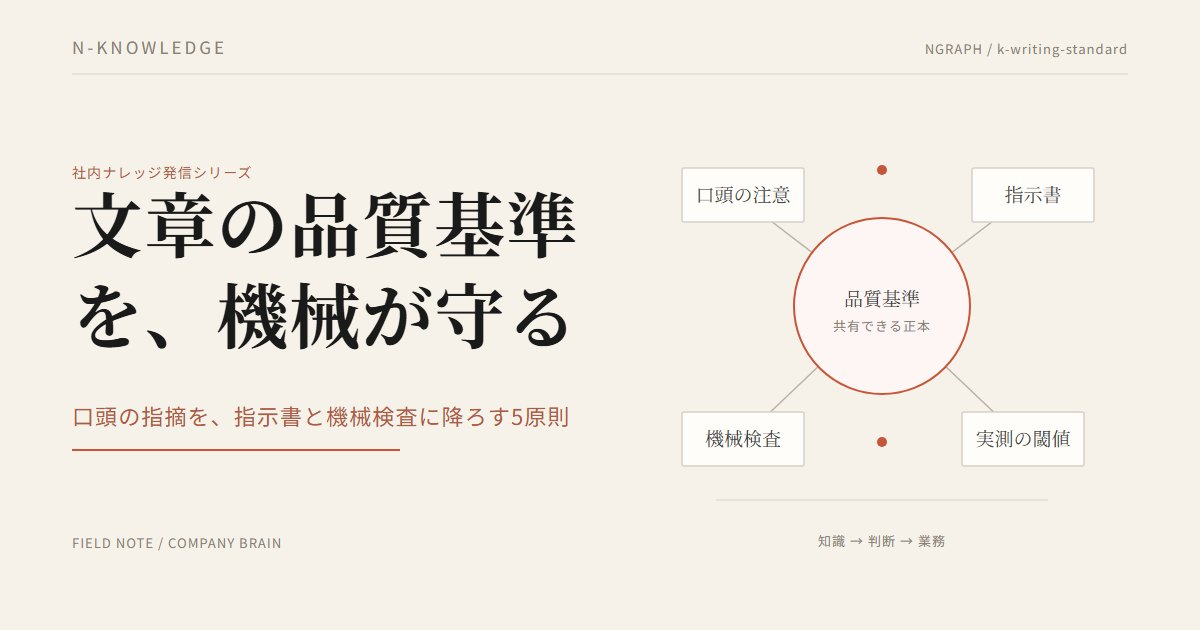
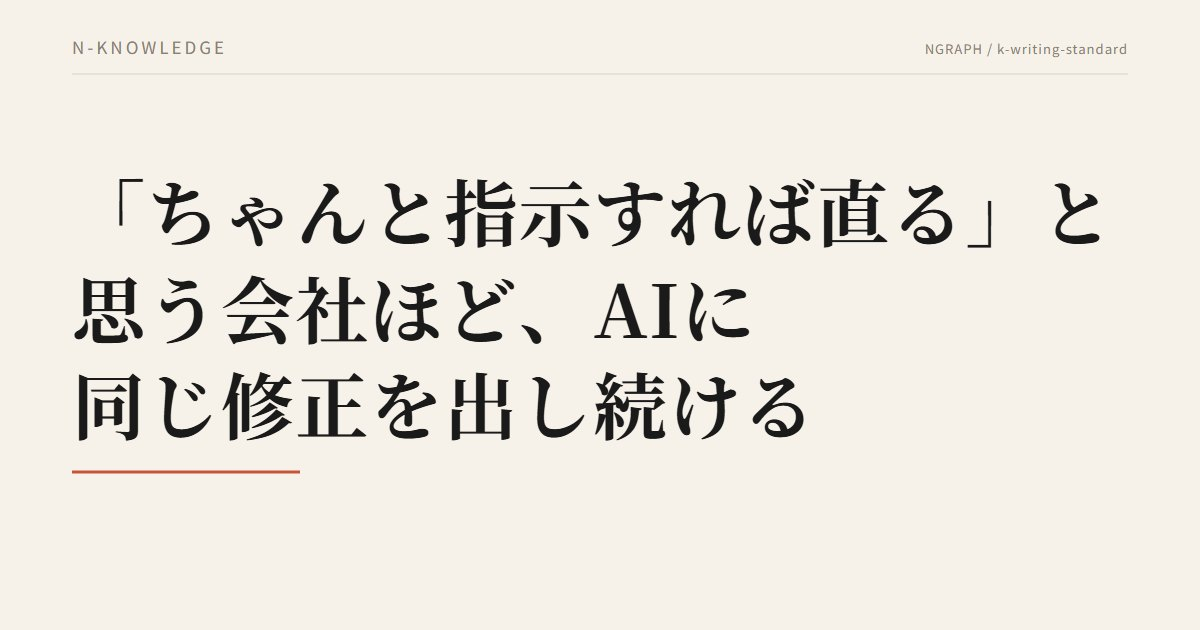
blog: k-writing-standard を標本ベースで作り直し（表紙をタイトル全文型へ・記事を読者課題起点へ）
はてなブックマークの保存上位を実測したところ、伸びている記事の表紙は
「タイトル全文を巨大に焼いただけ・図解なし」だった（1707users/1226users）。
うちは図解ハブが右半分を占めるため主張が左半分に押し込まれ、16字に収める
過程で必ず抽象標語になる構造だった＝8/18と8/19の差し戻しは同じ原因。

- eyecatch_k.py: タイトル全文型を新設し既定に（--layout title / 手動改行 | 対応・
  助詞始まりの行を弾く）。hub型は --layout hub で残す
- eyecatch_check.py: k-title は図案が無いので重なり判定の前提が無い。検査を
  外さず「安全余白の外に墨があるか」へ差し替え（負テストで exit 1 を確認）
- title_lint.py: <title>/og:title の「| NGraphブログ」欠落を検査（対象25本中
  この1本だけ欠けていた）
- 記事: タイトルを逆説型へ。自社ブログのlintの話から、AIに任せた定型業務で
  同じ修正が再発する読者課題へ再定義。設計名を「基準の移送」に是正（口頭の
  注意は捨てる段なので三段ではない）。自社61本の数字は事実・限界・転用手順の
  3層に分けた。表の「3連続まで」という矛盾を修正

diff --git a/blog/k-writing-standard.html b/blog/k-writing-standard.html
@@ -10,10 +10,10 @@
   gtag('js', new Date());
   gtag('config', 'G-L96HMXRK1D');
 </script>
-<title>AIに同じ注意を3回したら、直すのは指示書のほう——文章の品質を機械で守る5つの原則</title>
-<meta name="description" content="AIに同じ注意を繰り返している会社は多いはずです。基準を会話から指示書と機械検査に降ろす「基準の三段降ろし」という設計と、実測した閾値の根拠、行き詰まった2つの失敗をそのまま公開します。">
-<meta property="og:title" content="AIに同じ注意を3回したら、直すのは指示書のほう——文章の品質を機械で守る5つの原則">
-<meta property="og:description" content="AIに同じ注意を繰り返している会社は多いはずです。基準を会話から指示書と機械検査に降ろす「基準の三段降ろし」という設計と、実測した閾値の根拠、行き詰まった2つの失敗をそのまま公開します。">
+<title>「ちゃんと指示すれば直る」と思う会社ほど、AIに同じ修正を出し続ける——品質基準を人の口から外す設計 | NGraphブログ</title>
+<meta name="description" content="AIに出した修正指示は、次の生成には引き継がれません。基準を人の口から外し、AIが毎回読む指示書と、提出前に必ず走る検査へ移す設計です。閾値の決め方と、基準を作った本人が自分の基準に落ちた失敗まで公開します。">
+<meta property="og:title" content="「ちゃんと指示すれば直る」と思う会社ほど、AIに同じ修正を出し続ける——品質基準を人の口から外す設計 | NGraphブログ">
+<meta property="og:description" content="AIに出した修正指示は、次の生成には引き継がれません。基準を人の口から外し、AIが毎回読む指示書と、提出前に必ず走る検査へ移す設計です。閾値の決め方と、基準を作った本人が自分の基準に落ちた失敗まで公開します。">
 <meta property="og:type" content="article">
 <meta property="og:url" content="https://ngraph.jp/blog/k-writing-standard">
 <meta property="og:site_name" content="株式会社NGraph">
@@ -33,9 +33,9 @@
 {
   "@context": "https://schema.org",
   "@type": "Article",
-  "headline": "AIに同じ注意を3回したら、直すのは指示書のほう——文章の品質を機械で守る5つの原則",
+  "headline": "「ちゃんと指示すれば直る」と思う会社ほど、AIに同じ修正を出し続ける——品質基準を人の口から外す設計",
   "image": "https://ngraph.jp/assets/blog/k-writing-standard.jpg",
-  "description": "AIに同じ注意を繰り返している会社は多いはずです。基準を会話から指示書と機械検査に降ろす「基準の三段降ろし」という設計と、実測した閾値の根拠、行き詰まった2つの失敗をそのまま公開します。",
+  "description": "AIに出した修正指示は、次の生成には引き継がれません。基準を人の口から外し、AIが毎回読む指示書と、提出前に必ず走る検査へ移す設計です。閾値の決め方と、基準を作った本人が自分の基準に落ちた失敗まで公開します。",
   "datePublished": "2026-08-19",
   "dateModified": "2026-08-19",
   "inLanguage": "ja",
@@ -61,121 +61,112 @@
 
 <article class="article-wrap">
   <div class="a-label">N-KNOWLEDGE</div>
-  <h1>AIに同じ注意を3回したら、直すのは指示書のほう——文章の品質を機械で守る5つの原則</h1>
+  <h1>「ちゃんと指示すれば直る」と思う会社ほど、AIに同じ修正を出し続ける——品質基準を人の口から外す設計</h1>
   <span class="a-date">2026.08.19 ナレッジ ｜ 株式会社NGraph</span>
-  <img class="a-eyecatch" src="/assets/blog/k-writing-standard.jpg" alt="AIに同じ注意を3回したら、直すのは指示書のほう——文章の品質を機械で守る5つの原則">
-<p>AIに文章を書かせている会社の多くが、同じ場所でつまずきます。担当者が言い回しを直させ、その回は直る。ところが次の生成では、同じ癖がまた出てきます。うちも先週まで同じ状態でした。2026年8月16日、代表の髙橋から「同じ語尾が3回続く日本語はやばい」「最初の一文で何の話か分からないと、そこで離脱する」という指摘を受けた日、直す先を担当者への注意から変えました。AIが毎回読む指示書と、公開前に必ず走る機械検査に、基準そのものを移したのです。この記事では、その設計に付けた名前「基準の三段降ろし」と、実際に置いた5つの原則、そして基準を作った本人が自分の基準に落ちたという失敗を、実測した数字とともに公開します。</p>
+  <img class="a-eyecatch" src="/assets/blog/k-writing-standard.jpg" alt="「ちゃんと指示すれば直る」と思う会社ほど、AIに同じ修正を出し続ける——品質基準を人の口から外す設計">
+<p>AIに議事録や見積の下書きを書かせている会社で、同じ場面が繰り返し起きています。担当者が「この言い回しを直して」と指示を出し、その回は直る。ところが翌日また書かせると、同じ癖が戻っている。担当者はもう一度同じ指示を出し、3回目あたりで指摘するのをやめます。これはAIの性能でも、担当者の根気でもなく、<strong>指示を置いた場所</strong>の問題です。NGraphは2026年8月16日にこの問題へ正面からぶつかり、その日のうちに基準の置き場所を変えました。この記事で公開するのは、そのとき使った「基準の移送」という設計と、閾値の決め方、そして基準を作った本人が自分の基準に落ちた失敗です。</p>
 <div class="a-toc"><strong>この記事でわかること</strong><br>
-・AIへの注意が翌週に残らない、2つの構造的な理由<br>
-・基準の三段降ろし＝口頭の注意→指示書→機械検査という設計<br>
-・機械に渡してよい基準と、人が持つべき基準の分け方<br>
-・自社で今日から始められる最小5段階</div>
+・AIへの指示が翌日に残らない理由と、それが担当者の責任ではない根拠<br>
+・基準の置き場所は3つあり、そのうち1つは使ってはいけないこと<br>
+・機械に渡してよい基準と、人が持ち続けるべき基準の分け方<br>
+・閾値を勘で決めないための、自社の実物から線を引く手順<br>
+・明日から始められる5段階（表計算だけで足りる）</div>
 
-<h2>「気をつけます」で終わった指摘は、翌週には残っていない</h2>
-<p>AIに文章を書かせている現場で、同じ場面がよく起きます。担当者が「ここの言い回しを直して」と指摘し、その回だけは直ります。ところが次に生成させると、同じ癖がまた出てきます。担当者は同じ注意をもう一度口にし、そのうち指摘そのものをやめてしまいます。</p>
-<p>原因は担当者の根気ではありません。AIは前回の注意を、次の会話に持ち越さないからです。会話の中だけで直した基準は、その会話が終わった瞬間に消えます。ところが多くの現場では、基準は担当者の記憶と、過去のやり取りの奥にしか置かれていません。文章に限った話ではなく、見積の書き方でも、報告の形式でも、同じことが起きます。</p>
-<p>うちも同じ場所で止まっていました。2026年8月16日、代表の髙橋から「同じ語尾が3回続く日本語はやばい」「最初の一文で何の話か分からないと、そこで離脱する」という指摘を受けました。その日のうちに取った行動は、その回の文章を直すことではありませんでした。指摘そのものを、AIが毎回読む場所へ移したのです。</p>
+<h2>同じ修正を3回出したなら、直す相手はAIではない</h2>
+<p>なぜ同じ修正が戻ってくるのか。理由は単純で、<strong>AIは前回の会話で受けた指示を、次の会話へ持ち越さない</strong>からです。会話の中で伝えた基準は、その会話が閉じた瞬間に消えます。担当者の側には「先週あれだけ言ったのに」という記憶が残るので、AIが怠けているように見える。ところが実際には、基準がどこにも保存されていないだけです。</p>
+<p>この構図は文章に限りません。見積書の項目の並べ方、報告書の粒度、議事録で決定事項と検討事項を分ける書き分け。どれも「毎回言っているのに毎回直らない」の対象になります。共通するのは、基準が担当者の頭の中と、過去のやり取りの奥にしか無いことです。</p>
+<p>ここから導ける判断は1つです。<strong>同じ修正を3回出したなら、4回目を出す前に、基準の置き場所を変える。</strong> 4回目の指示は3回目と同じ運命をたどります。粘っても報われません。</p>
 
-<h2>基準を置ける場所は3つある</h2>
-<p>基準には、置ける場所が3つあります。1つ目は口頭の注意です。会話の中でその場だけ直す方法で、直った証拠は誰かの記憶にしか残りません。担当者が変わった瞬間、あるいはAIとの会話が終わった瞬間に消えます。</p>
-<p>2つ目は、AIが毎回読む指示書です。生成の前に必ず目を通す場所に基準を書いておけば、会話をまたいでも同じ基準が効きます。書き手が誰であっても、AIのモデルが替わっても、指示書がある限り基準は残ります。</p>
-<p>3つ目は、公開する前に必ず走る機械の検査です。人はどれだけ丁寧に注意していても、忙しい日には確認を飛ばします。機械の検査は忘れません。数えられる基準だけしか渡せませんが、走らせ忘れることがないという一点で、指示書よりさらに強い場所です。</p>
-<p>私たちはこの3段を「基準の三段降ろし」と呼んでいます。下の図が、その3段それぞれの基準がどれだけ残り、誰を守るかをまとめたものです。</p>
+<h2>基準の置き場所は3つあり、1つは使ってはいけない</h2>
+<p>基準を置ける場所は3つあります。ただし対等な3択ではありません。1つ目は<strong>口頭の注意</strong>で、会話の中でその場だけ直させるやり方です。残るのは誰かの記憶だけで、担当者が異動すれば消えます。これは移送元であって、置き場所として採用してはいけません。</p>
+<p>2つ目は<strong>AIが毎回読む指示書</strong>です。書き出す前に必ず通る場所へ基準を置いておくと、会話をまたいでも効き続けます。担当者が替わっても、使うAIを乗り換えても、指示書がある限り基準は残ります。</p>
+<p>3つ目は<strong>提出前に必ず走る検査</strong>です。人はどれほど気をつけていても、忙しい日には確認を飛ばします。検査は飛ばしません。渡せるのが数えられる基準だけという制約と引き換えに、走らせ忘れが起きない強さを持ちます。</p>
+<p>この、&#9312;を空にして&#9313;と&#9314;へ移す流れを、私たちは<strong>基準の移送</strong>と呼んでいます。3つ並べて選ぶのではなく、1つを捨てて2つへ移す。ここを取り違えると、指示書を作ったのに口頭の注意も続ける、という中途半端な状態で止まります。</p>
 
 <div class="a-fig-wrap">
-<p class="a-fig-title">基準の三段降ろし</p>
-<svg viewBox="0 0 1200 420" width="100%" style="min-width:640px" role="img" aria-label="基準を置ける3つの場所。①口頭の注意は1回で消え聞いていた本人しか守らない。②毎回読ませる指示書はAIが生成前に毎回読み、書き換えるまで残り、AIが書くもの全部を守る。③公開前の機械検査は人が忘れても走り、検査を緩めない限り恒久に残り、担当者が変わっても同じ基準で守る">
-<rect x="40" y="80" width="340" height="260" rx="4" fill="none" stroke="#8a8172" stroke-width="1.5"/>
-<text x="210" y="135" font-family="'Zen Kaku Gothic New',sans-serif" font-size="25" fill="#2b2620" font-weight="700" text-anchor="middle">① 口頭の注意</text>
-<text x="210" y="172" font-family="'Zen Kaku Gothic New',sans-serif" font-size="16" fill="#5c544a" text-anchor="middle">会話の中でその場だけ直す</text>
-<text x="210" y="232" font-family="'Zen Kaku Gothic New',sans-serif" font-size="16" fill="#5c544a" text-anchor="middle">残る期間：1回</text>
-<text x="210" y="270" font-family="'Zen Kaku Gothic New',sans-serif" font-size="16" fill="#5c544a" text-anchor="middle">守る相手：聞いていた本人だけ</text>
-
-<rect x="430" y="80" width="340" height="260" rx="4" fill="none" stroke="#8a8172" stroke-width="2.5"/>
-<text x="600" y="135" font-family="'Zen Kaku Gothic New',sans-serif" font-size="25" fill="#2b2620" font-weight="700" text-anchor="middle">② 毎回読ませる指示書</text>
-<text x="600" y="172" font-family="'Zen Kaku Gothic New',sans-serif" font-size="16" fill="#5c544a" text-anchor="middle">AIが生成する前に必ず読む</text>
-<text x="600" y="232" font-family="'Zen Kaku Gothic New',sans-serif" font-size="16" fill="#5c544a" text-anchor="middle">残る期間：書き換えるまで</text>
-<text x="600" y="270" font-family="'Zen Kaku Gothic New',sans-serif" font-size="16" fill="#5c544a" text-anchor="middle">守る相手：AIが書くもの全部</text>
-
-<rect x="820" y="80" width="340" height="260" rx="4" fill="#a63a24"/>
-<text x="990" y="135" font-family="'Zen Kaku Gothic New',sans-serif" font-size="25" fill="#f6f2e9" font-weight="700" text-anchor="middle">③ 公開前の機械検査</text>
-<text x="990" y="172" font-family="'Zen Kaku Gothic New',sans-serif" font-size="16" fill="#f6f2e9" text-anchor="middle">人が忘れても検査は走る</text>
-<text x="990" y="232" font-family="'Zen Kaku Gothic New',sans-serif" font-size="16" fill="#f6f2e9" text-anchor="middle">残る期間：緩めない限り恒久</text>
-<text x="990" y="270" font-family="'Zen Kaku Gothic New',sans-serif" font-size="16" fill="#f6f2e9" text-anchor="middle">守る相手：担当者が変わっても同じ</text>
-
-<line x1="380" y1="210" x2="422" y2="210" stroke="#8a8172" stroke-width="2"/><path d="M422 210 l-14 -7 v14 z" fill="#8a8172"/>
-<line x1="770" y1="210" x2="812" y2="210" stroke="#8a8172" stroke-width="2"/><path d="M812 210 l-14 -7 v14 z" fill="#8a8172"/>
-<text x="8" y="400" font-family="'Zen Kaku Gothic New',sans-serif" font-size="14" fill="#8a8172" text-anchor="start">右へ進むほど、基準が消えにくくなる。機械に渡せるのは数えられる基準だけ</text>
+<p class="a-fig-title">基準の移送：口頭の注意は捨て、2つの置き場所へ移す</p>
+<svg viewBox="0 0 1200 400" width="100%" style="min-width:660px" role="img" aria-label="基準の移送の図。左の口頭の注意は破線の枠で、残る期間は1回だけ、守る相手は聞いていた本人だけ。そこから矢印が右へ伸び、中央の毎回読ませる指示書と、右の提出前の検査へ移す。指示書は書き換えるまで残りAIが書くもの全部を守る。検査は緩めない限り残り担当者が変わっても守る">
+<text x="180" y="36" font-family="'Zen Kaku Gothic New',sans-serif" font-size="17" fill="#8a8172" text-anchor="middle">捨てる（移送元）</text>
+<text x="787" y="36" font-family="'Zen Kaku Gothic New',sans-serif" font-size="17" fill="#c8553a" text-anchor="middle">採用する置き場所</text>
+<rect x="30" y="62" width="300" height="230" rx="4" fill="none" stroke="#b9b2aa" stroke-width="1.5" stroke-dasharray="7 6"/>
+<text x="180" y="112" font-family="'Zen Kaku Gothic New',sans-serif" font-size="25" fill="#8a8172" font-weight="700" text-anchor="middle">&#9312; 口頭の注意</text>
+<text x="180" y="150" font-family="'Zen Kaku Gothic New',sans-serif" font-size="16" fill="#8a8172" text-anchor="middle">その場で言って直させる</text>
+<text x="180" y="208" font-family="'Zen Kaku Gothic New',sans-serif" font-size="16" fill="#8a8172" text-anchor="middle">残る期間：1回だけ</text>
+<text x="180" y="242" font-family="'Zen Kaku Gothic New',sans-serif" font-size="16" fill="#8a8172" text-anchor="middle">守る相手：聞いていた本人</text>
+<path d="M348 177H404" stroke="#c8553a" stroke-width="2"/><path d="M404 177l-13-7v14z" fill="#c8553a"/>
+<text x="376" y="162" font-family="'Zen Kaku Gothic New',sans-serif" font-size="15" fill="#c8553a" text-anchor="middle">移送</text>
+<rect x="422" y="62" width="300" height="230" rx="4" fill="none" stroke="#8a8172" stroke-width="1.5"/>
+<text x="572" y="112" font-family="'Zen Kaku Gothic New',sans-serif" font-size="25" fill="#2b2620" font-weight="700" text-anchor="middle">&#9313; 毎回読ませる指示書</text>
+<text x="572" y="150" font-family="'Zen Kaku Gothic New',sans-serif" font-size="16" fill="#5c544a" text-anchor="middle">AIが書き出す前に必ず読む</text>
+<text x="572" y="208" font-family="'Zen Kaku Gothic New',sans-serif" font-size="16" fill="#5c544a" text-anchor="middle">残る期間：書き換えるまで</text>
+<text x="572" y="242" font-family="'Zen Kaku Gothic New',sans-serif" font-size="16" fill="#5c544a" text-anchor="middle">守る相手：AIが書くもの全部</text>
+<path d="M740 177H796" stroke="#c8553a" stroke-width="2"/><path d="M796 177l-13-7v14z" fill="#c8553a"/>
+<rect x="814" y="62" width="338" height="230" rx="4" fill="#fdf6f4" stroke="#c8553a" stroke-width="2"/>
+<text x="983" y="112" font-family="'Zen Kaku Gothic New',sans-serif" font-size="25" fill="#2b2620" font-weight="700" text-anchor="middle">&#9314; 提出前の検査</text>
+<text x="983" y="150" font-family="'Zen Kaku Gothic New',sans-serif" font-size="16" fill="#5c544a" text-anchor="middle">人が忘れても必ず走る</text>
+<text x="983" y="208" font-family="'Zen Kaku Gothic New',sans-serif" font-size="16" fill="#5c544a" text-anchor="middle">残る期間：緩めない限りずっと</text>
+<text x="983" y="242" font-family="'Zen Kaku Gothic New',sans-serif" font-size="16" fill="#5c544a" text-anchor="middle">守る相手：担当者が変わっても</text>
+<text x="600" y="348" font-family="'Zen Kaku Gothic New',sans-serif" font-size="17" fill="#5c544a" text-anchor="middle">&#9313;には数えられない基準も置ける。&#9314;へ渡せるのは数えられる基準だけ</text>
 </svg>
+<p class="a-fig-cap">&#9312;は基準の置き場所として数えるが、採用する段ではない。移送を終えたら空にする。</p>
 </div>
+<h2>移送先1：指示書には「判断の基準」だけを書く</h2>
+<p>指示書に書くのは、直った理由の説明ではありません。何を避け、何を選ぶかという判断の基準だけです。背景を厚く書くほど、AIはどこが守るべき線でどこが参考情報かを見失います。1行で言い切れる形にして、理由は別の場所へ置いてください。</p>
+<p>NGraphの場合、2026年8月16日に受けた指摘は2つでした。同じ語尾が3回続く日本語は読みにくいこと、そして最初の一文で何の話か分からない記事は、そこで読者が離れること。その日のうちに、読まれている記事と文章術の本から要素を取り出し、AIが毎回読む指示書へ落としました。効果は当日の記事に出て、<strong>同じ語尾が続く最長の連続は4回から2回に減っています</strong>。会話から指示書へ移しただけで、その日の成果物が変わったことになります。</p>
+<p>ここで注意が1つ。指示書は書けば効くものではなく、<strong>AIが本当に毎回読んでいるか</strong>が効き目を決めます。読ませる導線の無い指示書は、体裁の整った死文にしかなりません。生成のたびに必ず通る場所へ置けているかを、最初に確かめてください。</p>
 
-<h2>原則1：基準は会話ではなく「毎回読ませる指示書」に書く</h2>
-<p>AIに同じ注意を2回しても直らなかったら、直す先を担当者の言葉ではなく、AIが毎回読む指示書に変えます。これが原則1です。AIは前回の注意を持ち越さないので、基準は会話の外に置くしかありません。</p>
-<p>2026年8月16日の指摘を受けたその日のうちに、私たちは読まれている記事や文章術の本から要素を取り出し、AIが毎回読む指示書を作りました。同じ日の記事で、同じ語尾が続く最長の連続は4回から2回に減りました。基準を会話から指示書へ移しただけで、その日のうちに数字が動いたことになります。</p>
-<p>指示書に書くのは、直った理由の長い説明ではありません。何を避け、何を選ぶかという、判断のための短い基準です。説明を長く書くほど、AIはどこが基準でどこが背景説明かを見失います。</p>
-
-<h2>原則2：数えられるものだけを機械に渡す</h2>
-<p>指示書に書いた基準のうち、機械で数えられるものだけを、さらに公開前の検査に渡します。私たちがいま機械にしている基準は4つです。</p>
+<h2>移送先2：検査に渡してよいのは、数えられる基準だけ</h2>
+<p>指示書に書いた基準のうち、数えられるものだけを、さらに提出前の検査へ渡します。私たちがいま機械に渡している基準は4つです。</p>
 <div class="a-table-wrap"><table class="a-table">
-<tr><th>番号</th><th>機械に渡した基準</th><th>上限</th></tr>
-<tr><td>①</td><td>同じ語尾の3連続を落とす</td><td>3連続まで</td></tr>
-<tr><td>②</td><td>文末に占める「ました。」の割合</td><td>30%</td></tr>
-<tr><td>③</td><td>60字を超える文の割合</td><td>40%</td></tr>
-<tr><td>④</td><td>絵の浮かばない抽象語の密度</td><td>1000字あたり5.5回</td></tr>
+<tr><th>番号</th><th>機械に渡した基準</th><th>置いた線</th></tr>
+<tr><td>&#9312;</td><td>同じ語尾の連続</td><td>2連続まで（3連続で落とす）</td></tr>
+<tr><td>&#9313;</td><td>文末に占める「ました。」の割合</td><td>30%まで</td></tr>
+<tr><td>&#9314;</td><td>60字を超える文の割合</td><td>40%まで</td></tr>
+<tr><td>&#9315;</td><td>絵の浮かばない抽象語の密度</td><td>1000字あたり5.5回まで</td></tr>
 </table></div>
-<p>数えられないものを機械に渡さない、というのが原則2のもう半分です。分かりにくいと言われた原因は、主語が他人事のように書かれていることと、新しく作った言葉に説明がないことでした。この2つは、文字列を数えるだけでは判定できません。無理に機械へ渡すと、通っていない文章を通ったと誤判定する検査ができあがります。だから数えられないものは、最初から人が持つと決めています。</p>
+<p>大事なのは、渡さなかった基準のほうです。指摘の主な原因は「主語が他人事のように書かれている」ことと、「新しく作った言葉に説明がない」ことでしたが、この2つは文字を数えるだけでは判定できません。無理に機械へ渡すと、条件をすり抜けた文章を合格と誤判定する検査ができあがります。だから<strong>数えられない基準は人が持ち続けると決め、その線引きを先に書いておく</strong>。この順序を守らないと、検査があることが確認をやめる口実に変わります。</p>
 
-<h2>原則3：閾値は勘で置かず、自分の過去の実測から引く</h2>
-<p>基準を機械に渡すと決めても、線をどこに引くかで検査の意味が変わります。私たちは、既存の61本の記事を実測してから線を引きました。</p>
-<p>60字を超える文の割合は、最も少ない記事で3%、真ん中の記事で31%、平均で28.5%、最も多い記事で54%でした。上限を40%に置いたのは、真ん中の31%にはまだ余裕があり、実測の中でもとくに悪かった43%から54%の群だけが落ちる位置だからです。</p>
-<p>絵の浮かばない抽象語の密度は、1000字あたりに直すと、真ん中の記事で1.8回、平均で1.9回、最も多い記事で6.8回でした。分布を見ると、5.4回と6.6回のあいだにだけ自然な切れ目があり、そこに線を引いて5.5回としました。基準点は2つあります。「内容はいいが、何を言っているか分からない」と言われた記事が6.8回、「いい記事だ」と評された記事が2.9回でした。</p>
-
-<h2>原則4：検査そのものを検査する</h2>
-<p>検査は、落とすべき文章だけを見本にして作ると育ちません。落ちてほしくない文章を見本として書き、それが実際に通るかどうかも、検査を作った本人が確かめる必要があります。</p>
-<p>これを怠ると起きるのが、検査を作った本人が、自分の検査に落ちるという事故です。私たちはこれを実際に経験しました。次の章で正直に書きます。</p>
-<p>検査そのものを検査するとは、通ってほしい文章と、落ちてほしい文章を、両方とも用意しておくことです。落ちてほしい文章しか用意しないと、検査が厳しすぎて普段の執筆を止めているのか、逆に緩すぎて何も拾っていないのかが、誰にも分からなくなります。</p>
-
-<h2>原則5：「通ったから良い」ではない、と検査自身に書いておく</h2>
-<p>機械の検査は、基準の一部しか見ていません。この事実を、検査の説明の冒頭に書いておくのが原則5です。</p>
-<p>指摘の主な原因だった「主語が他人事のように書かれている」ことと、「新しく作った言葉に説明がない」ことは、文字列では判定できません。実際、分かりにくいと言われたその記事は、長い文の割合が11%、言い回しの反復が0件で、この2つの検査には引っかかっていませんでした。引っかかったのは、抽象語の密度、ただ1つの検査だけです。</p>
-<p>だから検査の説明の冒頭には「これを通ったから読みやすい、という意味ではない」と書いてあります。作った人間が忘れやすいのは、検査に落ちた文章の直し方ではなく、検査を通った文章をそのまま信じてしまうことのほうです。</p>
+<h2>閾値は勘で置かず、自社の実物から引く</h2>
+<p>機械に渡すと決めても、線をどこに引くかで検査の意味が変わります。厳しすぎれば通らなくなって誰かが検査を無効にし、緩すぎれば何も拾いません。私たちは、すでに公開していた記事61本を実際に測ってから線を引きました。</p>
+<p>60字を超える文の割合は、最も少ない記事で3%、真ん中で31%、最も多い記事で54%。上限を40%に置いたのは、真ん中の31%にまだ余裕があり、実測の中でも悪かった群だけが落ちる位置だからです。絵の浮かばない抽象語の密度は、真ん中の記事で1000字あたり1.8回、最も多い記事で6.8回でした。分布を見ると5.4回と6.6回のあいだにだけ切れ目があり、そこへ線を引いて5.5回としています。基準点は2つあり、「内容はいいが何を言っているか分からない」と言われた記事が6.8回、「いい記事だ」と評された記事が2.9回です。</p>
+<p>ただし<strong>この数値をそのまま持ち帰らないでください。</strong> 61本はNGraphのブログという1つの母集団の話で、業種や文書の種類が違えば分布は変わります。転用できるのは数値ではなく手順のほうです。自社の直近20本から50本を同じ物差しで測り、真ん中がどこにあるかを見て、いちばん悪い群だけが落ちる位置から始める。<strong>正しいのは線の値ではなく、線の引き方です。</strong></p>
 
 <h2>つまずいた2つ</h2>
-<p>うまくいった話だけでは、この設計は再現できません。実際に踏んだ2つの失敗を、そのまま書きます。</p>
-<div class="a-note"><strong>1つ目：合格側の見本として書いた文章が、自分で決めた基準に引っかかりました。</strong> 検査に通るべき文章の見本を書こうとしたところ、絵の浮かばない抽象語の密度が、自分で置いた上限を超えていました。基準を作った本人が、その基準を満たす文章をすぐには書けなかったことになります。閾値が現実的かどうかは、通る側の見本を実際に書いてみるまで分かりません。数字だけを見て線を引いた段階では、まだ答え合わせが終わっていないということです。</div>
-<div class="a-note"><strong>2つ目：1本の記事を手で直しても、次の記事で必ず再発しました。</strong> 指摘を受けた記事だけをその場で直して終わると、指摘は資産になりません。人が手で直した修正は、その記事の中にしか残らず、次にAIが書く記事には引き継がれません。基準を指示書と検査に降ろして初めて、次の記事にも同じ基準が働きます。</div>
+<p>うまくいった話だけでは、この設計は再現できません。実際に踏んだ失敗を2つ書きます。</p>
+<p>1つ目は、<strong>合格側の見本として書いた文章が、自分で決めた基準に引っかかった</strong>ことです。検査に通るべき見本を用意しようとしたところ、抽象語の密度が自分で置いた上限を超えました。基準を作った本人が、その基準を満たす文章をすぐには書けなかったわけです。数字を眺めて線を引いた段階では、まだ答え合わせが終わっていません。<strong>通る側の見本を実際に書いてみるまで、その閾値が現実的かどうかは分からない。</strong></p>
+<p>2つ目は、<strong>1本を手で直しても、次で必ず再発した</strong>ことです。指摘された成果物だけをその場で直して終えると、修正はその1本の中にしか残りません。次にAIが書くものへは何も引き継がれない。移送を終えるまで、同じ修正は戻り続けます。</p>
 
-<h2>自社でやるなら：最小5段階</h2>
-<p>専用の道具がなくても、この設計は始められます。人力と表計算だけで、次の5段階から始められます。</p>
+<h2>明日から始める5段階</h2>
+<p>専用の道具は要りません。表計算と、AIに毎回読ませる置き場所が1つあれば足ります。</p>
 <div class="a-table-wrap"><table class="a-table">
-<tr><th>段階</th><th>やること</th><th>かかる時間</th></tr>
-<tr><td>1. 回数を数える</td><td>直近1週間で、同じ注意を何回したかを数える</td><td>10分</td></tr>
-<tr><td>2. 基準文にする</td><td>その注意を1行の基準文にして、AIに毎回読ませる場所へ置く</td><td>15分</td></tr>
-<tr><td>3. 検査を1つ選ぶ</td><td>数えられる基準を1つだけ選び、公開前に見る検査にする</td><td>15分</td></tr>
-<tr><td>4. 見本を2本置く</td><td>通るべき見本とダメな見本を、それぞれ1本ずつ置く</td><td>15分</td></tr>
-<tr><td>5. 直前の位置に置く</td><td>提出・公開の直前に、必ず目を通す位置に検査を置く</td><td>5分</td></tr>
+<tr><th>段階</th><th>やること</th><th>目安</th></tr>
+<tr><td>1</td><td>直近1週間で、AIに同じ修正を何回出したかを数える</td><td>10分</td></tr>
+<tr><td>2</td><td>いちばん多かった修正を1行の基準文にして、AIが毎回読む場所へ置く</td><td>15分</td></tr>
+<tr><td>3</td><td>その基準のうち数えられるものを1つだけ選び、提出前に見る検査にする</td><td>15分</td></tr>
+<tr><td>4</td><td>通るべき見本と、落ちるべき見本を1本ずつ書いて、検査に当てる</td><td>15分</td></tr>
+<tr><td>5</td><td>数えられない基準は誰が見るかを決めて、書き添える</td><td>5分</td></tr>
 </table></div>
-<p>AIに任せる場合に決めておくことが1つあります。数えられる基準だけを検査に渡し、数えられない基準は人が持つと最初に決めることです。この線引きを曖昧にしたまま検査を作ると、通っていない文章を通ったと誤判定する検査ができあがります。</p>
+<p>段階4を飛ばさないでください。落ちる見本しか用意しないと、検査が厳しすぎて現場を止めているのか、緩すぎて何も拾っていないのかが、誰にも分からなくなります。</p>
 
 <h2>まとめ</h2>
 <ul>
-<li>AIは前回の注意を持ち越さない。基準は会話ではなく、AIが毎回読む指示書に書く</li>
-<li>基準の置き場所は3段ある。口頭の注意は1回で消え、指示書は毎回効き、機械検査は人が忘れても走る</li>
-<li>機械に渡すのは数えられる基準だけ。数えられない基準は人が持つと先に決める</li>
-<li>閾値は勘で置かない。自分の過去の実測から、悪い群だけが落ちる位置に線を引く</li>
-<li>検査そのものを検査する。通るべき見本を書いてみて、初めて閾値の現実性が分かる</li>
-<li>「通ったから良い」ではないと、検査の説明自身に書いておく</li>
+<li>同じ修正を3回出したなら、直す相手はAIではなく基準の置き場所。AIは前回の指示を次の会話へ持ち越さない</li>
+<li>置き場所は3つあるが、口頭の注意は移送元であって採用する段ではない。&#9312;を空にして&#9313;指示書と&#9314;提出前の検査へ移すのが「基準の移送」</li>
+<li>指示書には判断の基準だけを書く。理由の説明を厚くすると、AIは守るべき線を見失う</li>
+<li>検査に渡すのは数えられる基準だけ。数えられない基準は人が持つと先に決めて書いておく</li>
+<li>閾値は勘で置かず、自社の直近20〜50本を測って、悪い群だけが落ちる位置から始める。持ち帰るのは数値ではなく線の引き方</li>
+<li>通るべき見本を実際に書くまで、閾値が現実的かどうかは分からない</li>
 </ul>
 
 <div class="a-cta">
   <p style="font-family:var(--serif);font-size:1.02rem;font-weight:700;color:var(--text)">NGraphでは、FDE型AI導入伴走支援を承っております。</p>
-  <p>今回のような「品質基準を指示書と機械検査に降ろす仕組み」の構築を、エンジニアが御社の現場に入って行います。文章に限らず、見積・報告・検査といった定型業務まで一貫して支援します。ご依頼は随時募集しています。お気軽にご相談ください。</p>
+  <p>今回のような「基準の移送」——AIに任せた業務の品質基準を、人の口から指示書と提出前の検査へ移す仕組みの構築を、エンジニアが御社の現場に入って行います。議事録・見積・報告など、AIに下書きさせている定型業務が対象です。ご依頼は随時募集しています。お気軽にご相談ください。</p>
   <a href="/entry" class="btn btn-primary">無料で相談する</a>
   <p style="margin-top:14px;font-size:.78rem">XのDMでも受け付けています：<a href="https://x.com/japan19840824" target="_blank" rel="noopener" style="color:var(--accent);border-bottom:1px solid var(--accent)">@japan19840824</a>　／　<a href="/fde/" style="color:var(--accent);border-bottom:1px solid var(--accent)">FDE型AI導入伴走支援の詳細はこちら →</a></p>
 </div>
 
 <div class="a-src">補足：<br>
-・本文の数値はすべて2026年8月時点の自社リポジトリでの実測です<br>
+・本文の数値はすべて2026年8月時点の自社ブログ61本を実際に測ったものです。他社に当てはまる一般値ではありません<br>
 ・関連記事：<a href="/blog/k-blog-gate">毎日出す仕事を、人の目で守るのをやめる——公開前ゲート13本の設計</a>／<a href="/blog/k-company-brain-abc">会社の情報は「誰の・どの状態か」で分ける——AIが読める正本にする2軸と3原則</a>／<a href="/blog/k-x-loop">Claude CodeにXの伸ばし方を48時間ごとに学ばせる——フォロワー95人で回している「標本ループ」の設計図</a></div>
 
   <a href="/blog/" class="a-back">← ブログ一覧に戻る</a>

diff --git a/scripts/eyecatch_k.py b/scripts/eyecatch_k.py
@@ -38,12 +38,12 @@ def fit(s):
     raise ValueError(f"主張が2行に収まりません（60ptでも超過）。あと{max(1,len(s)-keep)}文字ほど削ってください。")
 def one(s,fs,mw,name):
     if "\n" in s or width(s,fs,fs*.02)>mw:raise ValueError(f"{name}が1行に収まりません。短くしてください。")
-def record(path,slug,title,sub,fs,article):
+def record(path,slug,title,sub,fs,article,pattern="k-b-diagram"):
     d=json.loads(path.read_text(encoding="utf-8")) if path.exists() else {};h1=None
     if article and Path(article).exists():
         m=re.search(r"<h1\b[^>]*>(.*?)</h1>",Path(article).read_text(encoding="utf-8"),re.I|re.S)
         if m:h1=re.sub(r"<[^>]+>","",m.group(1)).strip()
-    d[slug]={"title":title,"sub":sub,"pattern":"k-b-diagram","fs":fs,"article_h1":h1};path.parent.mkdir(parents=True,exist_ok=True);path.write_text(json.dumps(d,ensure_ascii=False,indent=1,sort_keys=True)+"\n",encoding="utf-8")
+    d[slug]={"title":title,"sub":sub,"pattern":pattern,"fs":fs,"article_h1":h1};path.parent.mkdir(parents=True,exist_ok=True);path.write_text(json.dumps(d,ensure_ascii=False,indent=1,sort_keys=True)+"\n",encoding="utf-8")
 def build(slug,title,sub,hub,nodes,label,foot,fs,ls):
     if len(nodes)!=4:raise ValueError("--nodes は4語を指定してください")
     one(sub,22,510,"サブ")
@@ -63,18 +63,96 @@ def build(slug,title,sub,hub,nodes,label,foot,fs,ls):
     boxes=[(682,168,nodes[0]),(972,168,nodes[1]),(682,412,nodes[2]),(962,412,nodes[3])]
     ns="".join(f'<rect x="{x}" y="{y}" width="122" height="54" rx="2" class="node"/><text class="nodeText" x="{x+61}" y="{y+34}" text-anchor="middle">{esc(v)}</text>' for x,y,v in boxes)
     return f'''<svg xmlns="http://www.w3.org/2000/svg" width="1200" height="630" viewBox="0 0 1200 630" role="img" aria-labelledby="title desc"><title id="title">{esc(title)} — N-KNOWLEDGE</title><desc id="desc">{esc(hub)}を中心に知識と業務がつながる構造を示す図解。</desc><defs><style>.label{{font-family:'Zen Kaku Gothic New',sans-serif;font-size:17px;letter-spacing:.18em;fill:#8a8172}}.kicker{{font-family:'Zen Kaku Gothic New',sans-serif;font-size:14px;letter-spacing:.08em;fill:#b05a45}}.title{{font-family:'Zen Old Mincho',serif;font-weight:700;font-size:{fs}px;letter-spacing:.02em;fill:#1a1a1a}}.sub{{font-family:'Zen Kaku Gothic New',sans-serif;font-size:22px;letter-spacing:.05em;fill:#b05a45}}.tiny{{font-family:'Zen Kaku Gothic New',sans-serif;font-size:13px;letter-spacing:.08em;fill:#8a8172}}.line{{fill:none;stroke:#b9b2aa;stroke-width:1.5}}.accent{{fill:none;stroke:#c8553a;stroke-width:2}}.node{{fill:#fffdf9;stroke:#d8d0c6;stroke-width:1.5}}.nodeText{{font-family:'Zen Old Mincho',serif;font-size:19px;fill:#454545}}.center{{fill:#fdf6f4;stroke:#c8553a;stroke-width:2}}</style></defs><rect width="1200" height="630" fill="#f6f2e9"/><path d="M72 74H1128" stroke="#d8d0c6"/><text class="label" x="72" y="54">{esc(label)}</text><text class="tiny" x="1128" y="54" text-anchor="end">NGRAPH / {esc(slug)}</text><text class="kicker" x="72" y="{KICKER_Y}">社内ナレッジ発信シリーズ</text>{titles}<text class="sub" x="72" y="425">{esc(sub)}</text><path d="M72 450H400" class="accent"/><text class="tiny" x="72" y="548">{esc(foot)}</text><g><path d="M882 306L737 195M882 306L1027 195M882 306L742 439M882 306L1022 439" class="line"/><circle cx="882" cy="306" r="88" class="center"/><text class="nodeText" x="882" y="306" text-anchor="middle">{esc(hub)}</text><text class="tiny" x="882" y="331" text-anchor="middle">共有できる正本</text>{ns}<circle cx="882" cy="170" r="5" fill="#c8553a"/><circle cx="882" cy="442" r="5" fill="#c8553a"/><path d="M716 500H1048" stroke="#d8d0c6"/><text class="tiny" x="882" y="546" text-anchor="middle">知識 → 判断 → 業務</text></g></svg>'''
+
+# ---- タイトル全文型（2026-08-19新設）------------------------------------------
+# 起点: 髙橋さん「表紙タイトル改行もおかしいし。なんのフックにもならない。弱すぎる」（8/19）。
+# 8/18・8/19と2回続けて「抽象標語で何の記事か分からない」で差し戻された。
+# 原因はレイアウトにある——図解ハブが右半分を占めるため主張が左半分に押し込まれ、
+# 16字に収める過程で必ず抽象標語になる。書き手の心がけでは止まらない。
+# はてなブックマークの保存上位を実測（2026-08-19・blog-specimens.jsonl）したところ、
+# 1707users・1226usersとも表紙は「タイトル全文を巨大に焼いただけ・図解なし」だった。
+# よってこの型では **記事タイトルの主題部をそのまま焼く**。書き手が別の文言を考える
+# 余地を無くすことで、抽象標語もタイトルとのズレも構造的に起こらなくなる。
+TITLE_BOX = 1056          # 左右マージン72ずつ
+TITLE_MAXLINES = 3
+
+def fit_title(s, box=TITLE_BOX, maxlines=TITLE_MAXLINES, fs_max=96, fs_min=52):
+    """タイトルを最大3行に収める級数と行を返す。'|' があれば手動改行を優先する。"""
+    if "|" in s:
+        lines = [x.strip() for x in s.split("|") if x.strip()]
+        if len(lines) > maxlines:
+            raise ValueError(f"手動改行が{len(lines)}行です。{maxlines}行までにしてください")
+        for fs in range(fs_max, fs_min - 1, -1):
+            if all(width(l, fs, fs * .02) <= box for l in lines):
+                return fs, lines
+        raise ValueError("手動改行しても収まりません。1行あたりを短くしてください")
+    for fs in range(fs_max, fs_min - 1, -1):
+        ls = wrap(s, fs, box)
+        if len(ls) <= maxlines:
+            return fs, ls
+    raise ValueError(f"タイトルが{maxlines}行に収まりません（{fs_min}ptでも超過）。短くするか '|' で改行位置を指定してください")
+
+def build_title(slug, title, lines, fs, label):
+    """タイトル全文型のSVG。図解・キャッチ・固定キャプションは置かない。"""
+    for l in lines:
+        if l and l[0] in "をがはにでとへもの、。":
+            raise ValueError(f"行が助詞・句読点で始まっています: {l!r}。'|' で改行位置を指定してください")
+    total = len(lines) * fs * 1.32
+    top = (H - total) / 2 + fs * 0.86 + 8
+    checks = [(label, 72, 54, 17, .18, "l"), (f"NGRAPH / {slug}", 1128, 54, 13, .08, "r")]
+    checks += [(x, 72, top + i * fs * 1.32, fs, .02, "l") for i, x in enumerate(lines)]
+    for v, x, y, z, sp, a in checks:
+        ww = width(v, z, z * sp)
+        left = x - ww if a == "r" else x - ww / 2 if a == "m" else x
+        right = x if a == "r" else x + ww / 2 if a == "m" else x + ww
+        if left < 0 or right > W or y - z < 0 or y > H:
+            raise ValueError(f"テキストがキャンバス外です: {v!r}")
+    ts = "".join(f'<text class="title" x="72" y="{top + i * fs * 1.32:.1f}">{esc(v)}</text>' for i, v in enumerate(lines))
+    rule_y = top + (len(lines) - 1) * fs * 1.32 + fs * 0.52
+    return (f'<svg xmlns="http://www.w3.org/2000/svg" width="{W}" height="{H}" viewBox="0 0 {W} {H}" '
+            f'role="img" aria-labelledby="title"><title id="title">{esc(title)} — N-KNOWLEDGE</title>'
+            f'<defs><style>'
+            f".label{{font-family:'Zen Kaku Gothic New',sans-serif;font-size:17px;letter-spacing:.18em;fill:#8a8172}}"
+            f".title{{font-family:'Zen Old Mincho',serif;font-weight:700;font-size:{fs}px;letter-spacing:.02em;fill:#1a1a1a}}"
+            f".tiny{{font-family:'Zen Kaku Gothic New',sans-serif;font-size:13px;letter-spacing:.08em;fill:#8a8172}}"
+            f'</style></defs>'
+            f'<rect width="{W}" height="{H}" fill="#f6f2e9"/>'
+            f'<path d="M72 74H1128" stroke="#d8d0c6"/>'
+            f'<text class="label" x="72" y="54">{esc(label)}</text>'
+            f'<text class="tiny" x="1128" y="54" text-anchor="end">NGRAPH / {esc(slug)}</text>'
+            f'{ts}'
+            f'<path d="M72 {rule_y:.1f}H300" stroke="#c8553a" stroke-width="3"/>'
+            f'</svg>')
+
 def main():
-    p=argparse.ArgumentParser();p.add_argument("slug");p.add_argument("title");p.add_argument("sub");p.add_argument("--hub",required=True);p.add_argument("--nodes",required=True);p.add_argument("--label",default="N-KNOWLEDGE");p.add_argument("--foot",default="FIELD NOTE  /  COMPANY BRAIN");p.add_argument("--out",required=True);p.add_argument("--record");p.add_argument("--article");a=p.parse_args()
+    p=argparse.ArgumentParser()
+    p.add_argument("slug");p.add_argument("title");p.add_argument("sub",nargs="?",default="")
+    p.add_argument("--layout",choices=("title","hub"),default="title",
+                   help="title=タイトル全文型（既定・2026-08-19）／hub=旧B案の図解ハブ型")
+    p.add_argument("--hub");p.add_argument("--nodes")
+    p.add_argument("--label",default="N-KNOWLEDGE")
+    p.add_argument("--foot",default="FIELD NOTE  /  COMPANY BRAIN")
+    p.add_argument("--out",required=True);p.add_argument("--record");p.add_argument("--article")
+    a=p.parse_args()
     try:
-        nodes=[x.strip() for x in a.nodes.split(",")]
-        if len(nodes)!=4 or any(not x for x in nodes):raise ValueError("--nodes は空語なしの4語を指定してください")
-        fs,ls=fit(a.title);out=Path(a.out);out.parent.mkdir(parents=True,exist_ok=True)
-        svg=build(a.slug,a.title,a.sub,a.hub,nodes,a.label,a.foot,fs,ls)
+        out=Path(a.out);out.parent.mkdir(parents=True,exist_ok=True)
+        if a.layout=="title":
+            # 表紙に焼くのは記事タイトルの主題部そのもの。書き手が別の文言を考えない
+            # ＝抽象標語とタイトルとのズレが構造的に起きない（2026-08-19・標本実測）
+            fs,ls=fit_title(a.title)
+            svg=build_title(a.slug,a.title.replace("|",""),ls,fs,a.label)
+        else:
+            if not a.hub or not a.nodes:raise ValueError("hub型には --hub と --nodes が必要です")
+            nodes=[x.strip() for x in a.nodes.split(",")]
+            if len(nodes)!=4 or any(not x for x in nodes):raise ValueError("--nodes は空語なしの4語を指定してください")
+            fs,ls=fit(a.title)
+            svg=build(a.slug,a.title,a.sub,a.hub,nodes,a.label,a.foot,fs,ls)
         # 移植時の統合（2026-08-15）: --out が .jpg なら既存表紙と同じ経路でJPG化する。
         # SVG生成と自己検査までがCodexの納品契約で、レンダリングは受入側の持ち場
         if out.suffix.lower() in (".jpg",".jpeg"):svg_to_jpg(svg,str(out))
         else:out.write_text(svg+"\n",encoding="utf-8")
-        if a.record:record(Path(a.record),a.slug,a.title,a.sub,fs,a.article)
+        if a.record:record(Path(a.record),a.slug,a.title.replace("|",""),a.sub,fs,a.article,
+                           "k-title" if a.layout=="title" else "k-b-diagram")
         print(f"OK {out} fs={fs} lines={len(ls)}");return 0
     except (ValueError,OSError,json.JSONDecodeError) as e:print(f"ERROR: {e}",file=sys.stderr);return 3
 

diff --git a/scripts/eyecatch_check.py b/scripts/eyecatch_check.py
@@ -52,6 +52,7 @@ X0, X1 = 736, 1140
 Y0, Y1 = 90, 520
 # k-b-diagram（eyecatch_k.py）用の緩衝帯——見出し右端(x582)と図案の箱の左端(x682)の間
 KX0, KX1 = 582, 682
+H_PX = 630          # k-title の余白検査は全高を見る
 KY0, KY1 = 90, 520
 INK_MAX = 80       # これ未満を「墨のテキスト」とみなす
 LIMIT = 50         # この画素数を超えたら重なりとする（JPEGノイズの数画素は許容）
@@ -80,6 +81,19 @@ def scan(path):
     # という前提自体が無い。検査対象外にする（対象外は呼び出し側の出力で見えるようにする）
     if pat == "visual-gen":
         return 0, None
+    # k-title（2026-08-19新設・タイトル全文型）: 図案そのものが無いので「本文が図案に
+    # 重なる」という前提が成立しない。ただし検査を外すと、この型で唯一起こりうる本物の
+    # 事故——巨大級数の文字が左右の余白を突き破る——を誰も見なくなる。判定対象を
+    # 「安全余白の外に墨があるか」へ差し替える。文字は x=72 起点・右端 1128 で組むので、
+    # x<62 と x>1138 は正しく生成できていれば必ず地色のままになる。
+    if pat == "k-title":
+        n = 0
+        for y in range(0, H_PX):
+            for x in list(range(0, 62)) + list(range(1138, 1200)):
+                r, g, b = px[x, y]
+                if max(r, g, b) < INK_MAX:
+                    n += 1
+        return n, None
     x0, x1, y0, y1 = (KX0, KX1, KY0, KY1) if pat == "k-b-diagram" else (X0, X1, Y0, Y1)
     n = 0
     for y in range(y0, y1):

diff --git a/scripts/title_lint.py b/scripts/title_lint.py
@@ -52,6 +52,15 @@ def main():
             fails.append((name, "<title>が無い"))
             continue
         title = m.group(1).strip()
+        # 2026-08-19: k-writing-standard が「| NGraphブログ」無しで本番へ出た。
+        # 対象25記事のうち欠けていたのは1本だけ＝サイトの慣行として確立している。
+        # 検索結果とタブに出るのは <title> なので、ここが欠けると1本だけ名乗りが消える。
+        if not re.search(r"<title>[^<]*\|\s*NGraphブログ\s*</title>", html):
+            fails.append((name, f"<title>に「 | NGraphブログ」が無い: 「{title}」"))
+        # og:title も同じ形で揃える（SNSカードに出る名前）
+        og = re.search(r'<meta property="og:title" content="([^"]*)"', html)
+        if og and "| NGraphブログ" not in og.group(1):
+            fails.append((name, f"og:titleに「 | NGraphブログ」が無い: 「{og.group(1)}」"))
         for pat, msg in NG_PATTERNS:
             if re.search(pat, title):
                 fails.append((name, f"{msg}: 「{title}」"))
